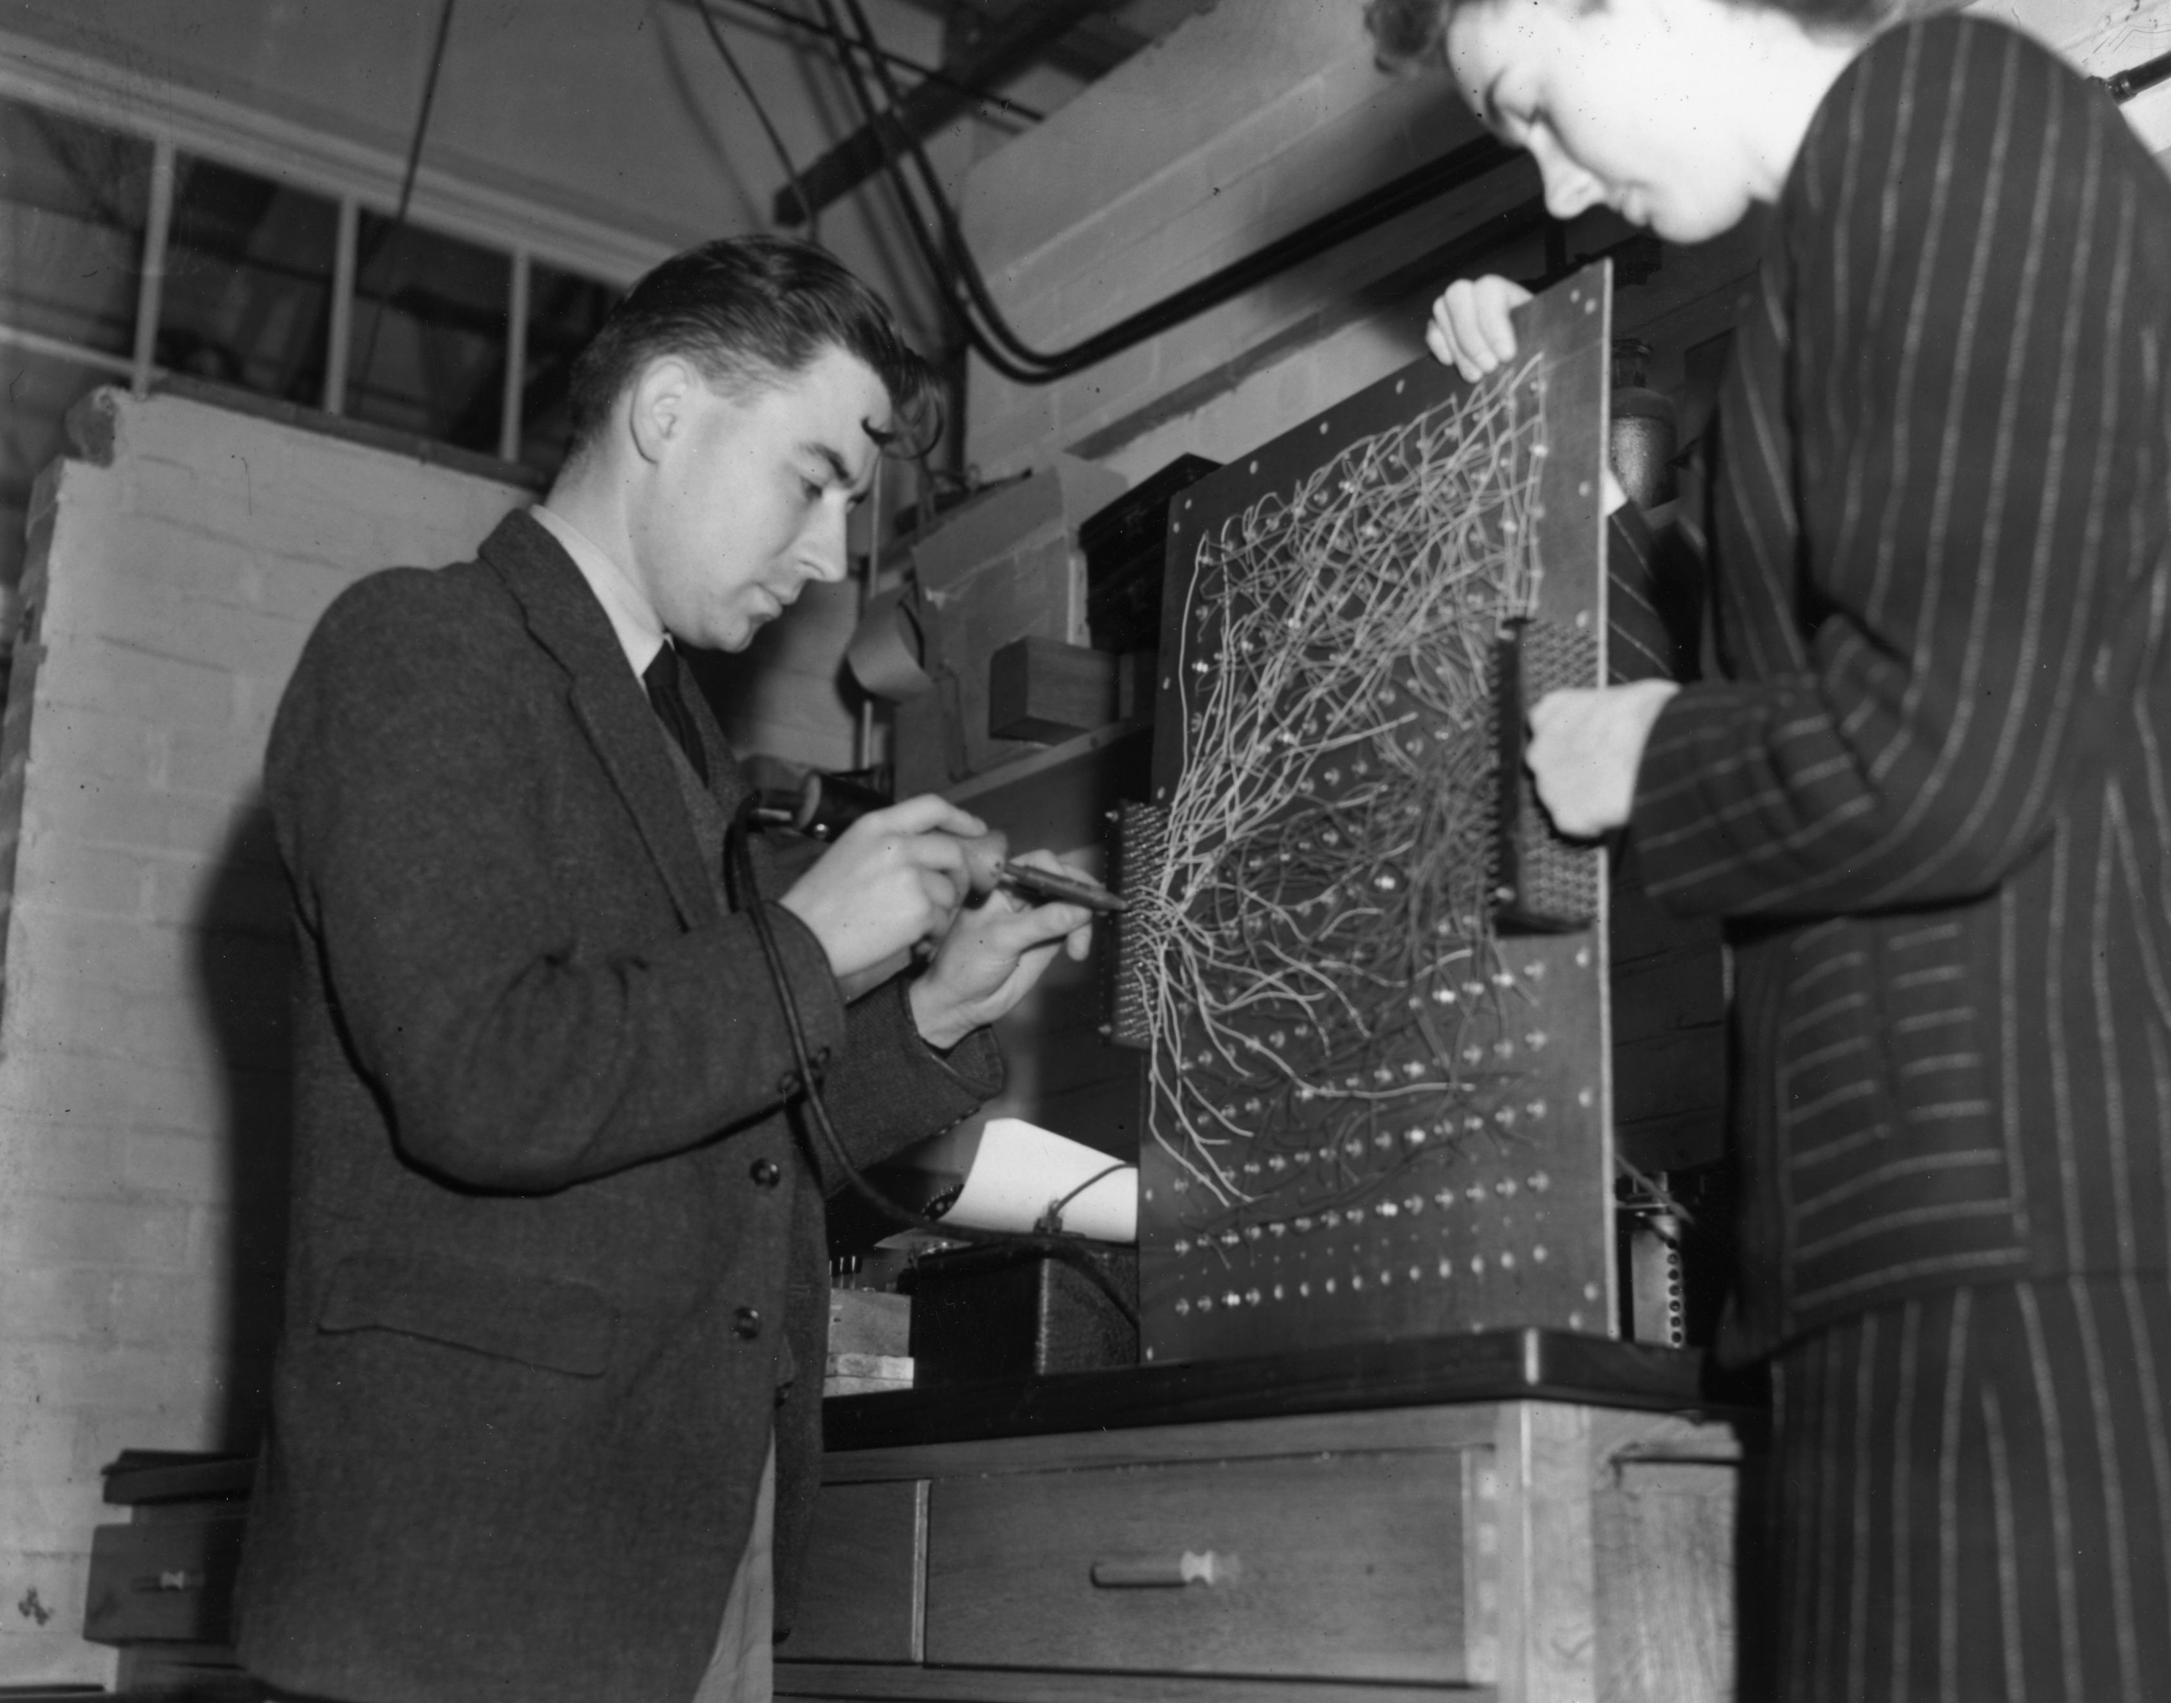
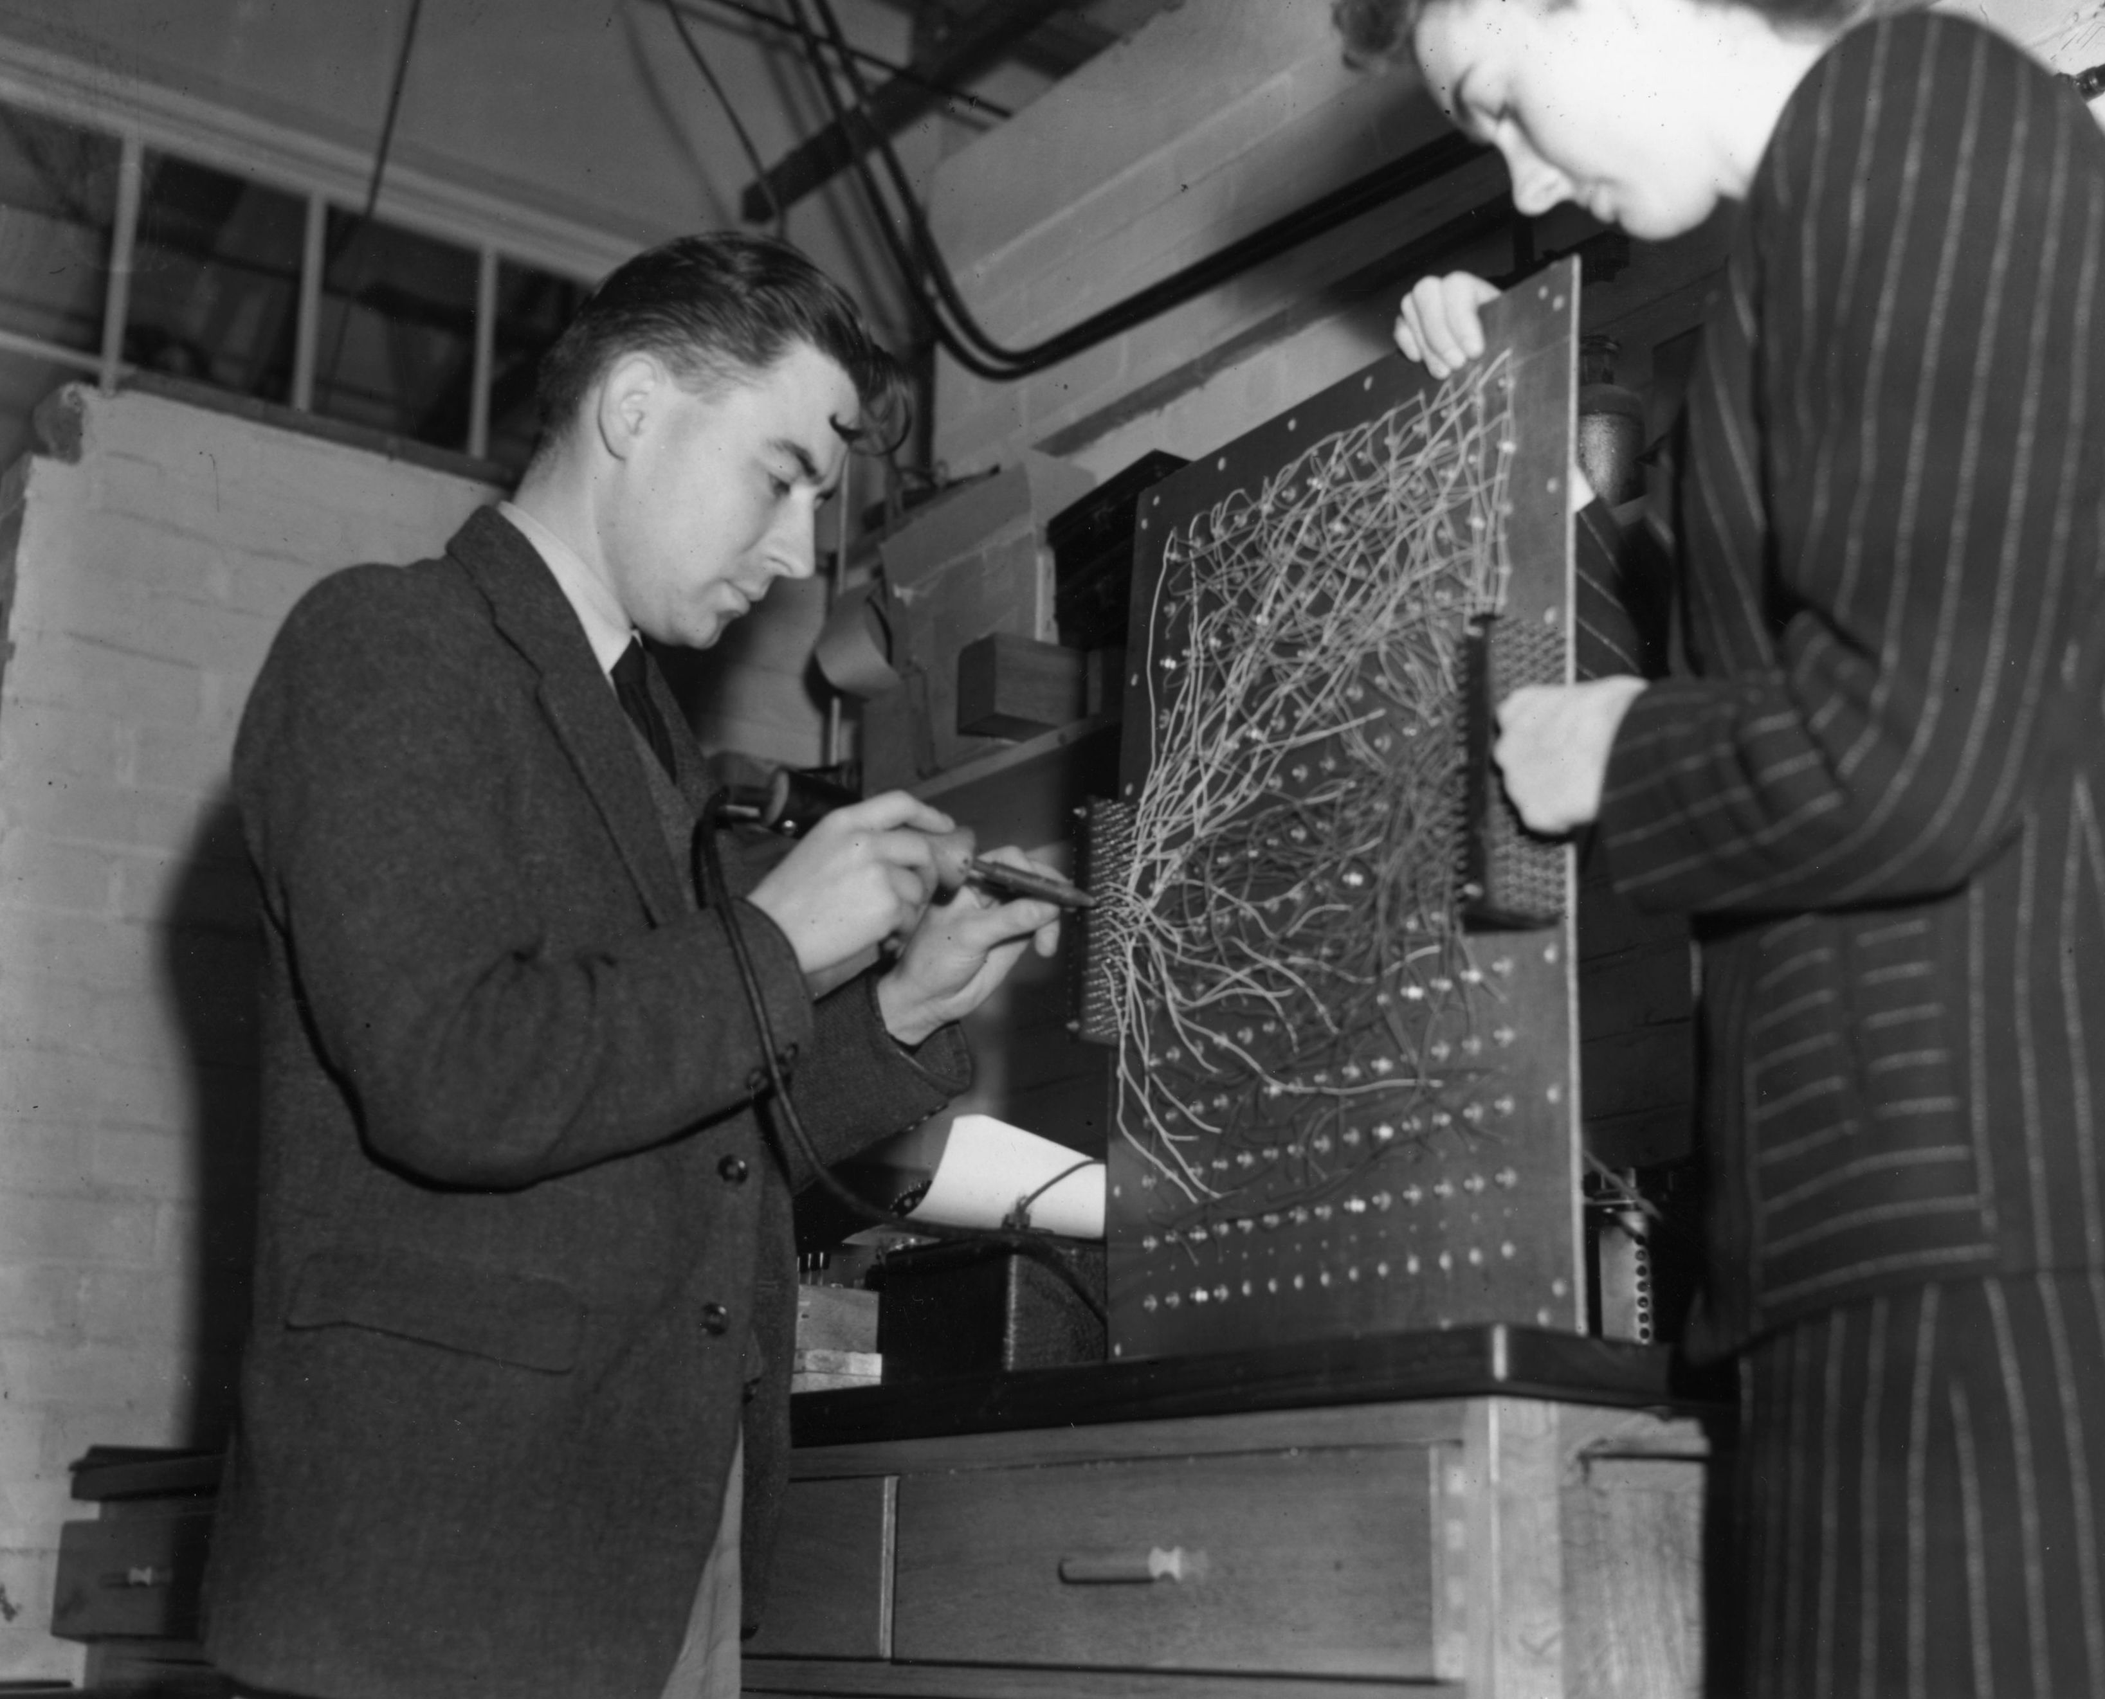
Resized card images

diff --git a/css/style.css b/css/style.css
@@ -62,6 +62,10 @@ button {
   border: none;
 }
 
+article > img {
+  padding: 0;
+}
+
 @media (min-width: 768px) {
   h1 {
     font-size: 160px;
@@ -98,9 +102,12 @@ button {
     justify-items: center;
     grid-template-columns: 1fr 1fr 1fr;
   }
-  .grid-desktop img,
-  .grid-desktop-3 img {
+  .grid-desktop img {
     width: 20vw;
+    height: auto;
+  }
+  .grid-desktop-3 img {
+    width: 30vw;
     height: auto;
   }
   .button:hover {
